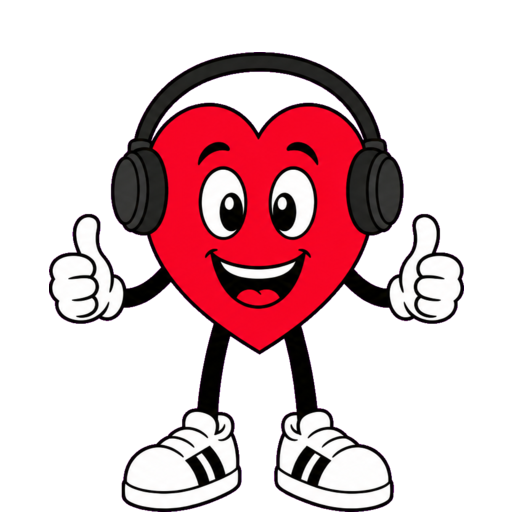
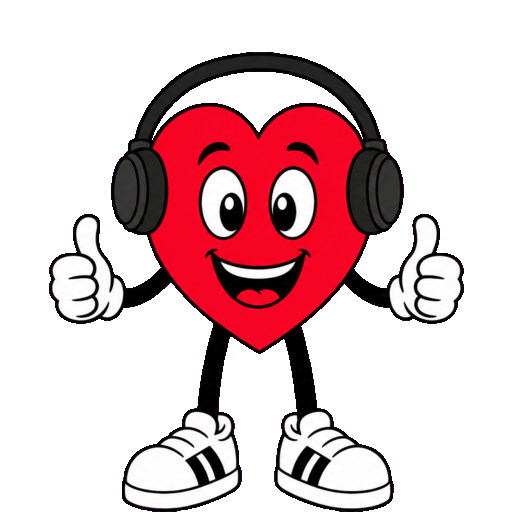
fix: 🎨 clear resize chroma fringe and tune mouth anchor

diff --git a/src/mascot/mascot.stories.tsx b/src/mascot/mascot.stories.tsx
@@ -1,5 +1,7 @@
 import type { Meta, StoryObj } from 'storybook-solidjs-vite';
 
+import { For } from 'solid-js';
+
 import { Mascot } from '@/mascot/mascot';
 import { resolveBundledPoseUrl } from '@/mascot/pose-assets';
 import type { BeatPoseKey } from '@/mascot/persona';
@@ -75,16 +77,18 @@ export const Dark: Story = {
 export const AllPoses: Story = {
 	render: () => (
 		<div class="grid grid-cols-2 gap-6 bg-white p-6 dark:bg-neutral-950">
-			{POSES.map((pose) => (
-				<div class="flex flex-col items-center gap-2">
-					<Mascot
-						poseUrl={resolveBundledPoseUrl(pose)}
-						isAnimating={pose === 'working'}
-						alt={`Beat ${pose} pose`}
-					/>
-					<span class="text-xs text-neutral-500">{pose}</span>
-				</div>
-			))}
+			<For each={POSES}>
+				{(pose) => (
+					<div class="flex flex-col items-center gap-2">
+						<Mascot
+							poseUrl={resolveBundledPoseUrl(pose)}
+							isAnimating={pose === 'working'}
+							alt={`Beat ${pose} pose`}
+						/>
+						<span class="text-xs text-neutral-500">{pose}</span>
+					</div>
+				)}
+			</For>
 		</div>
 	),
 };

diff --git a/src/assets/main.css b/src/assets/main.css
@@ -70,9 +70,9 @@
 	/*
 	 * Framing contract (512×512 normalized poses, south-extent baseline):
 	 * --beat-mouth-art-ratio = mouth-center Y ÷ canvas height.
-	 * Measured on idle/working/sad after reexport (~0.41–0.42); shared 0.42.
+	 * Measured on idle smile (~y=268/512); tip offset tuned to 0.56 for CSS tail.
 	 */
-	--beat-mouth-art-ratio: 0.42;
+	--beat-mouth-art-ratio: 0.56;
 	--beat-tail-y: 1.25rem;
 
 	display: grid;
